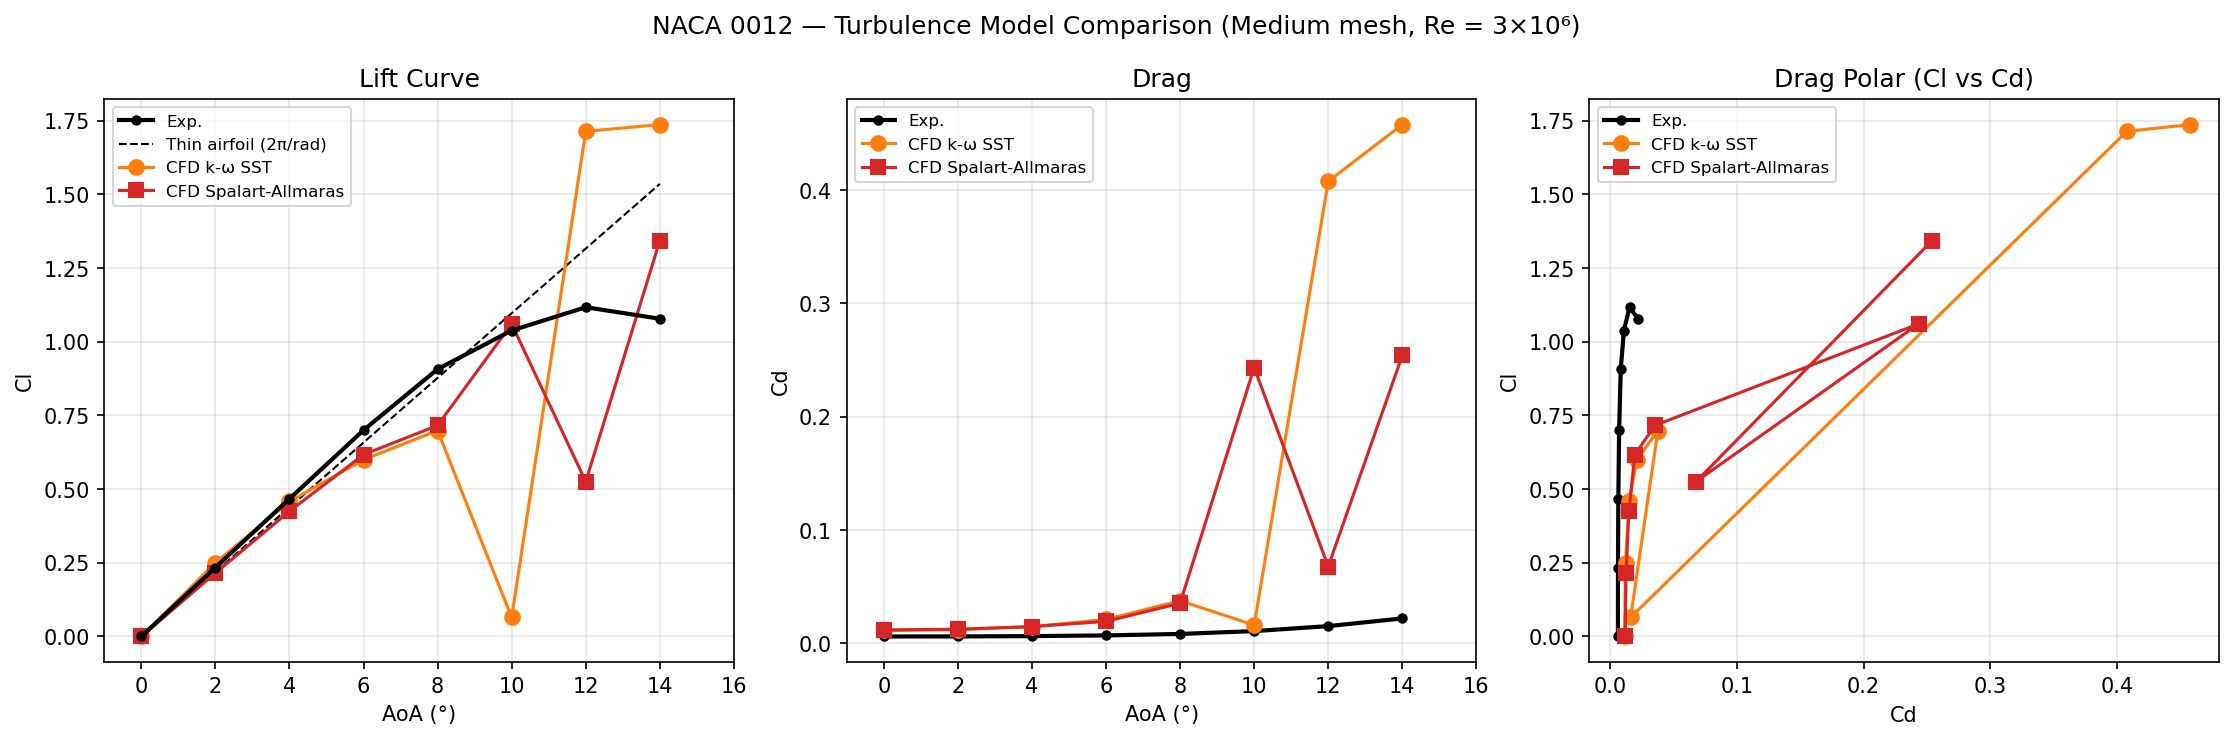
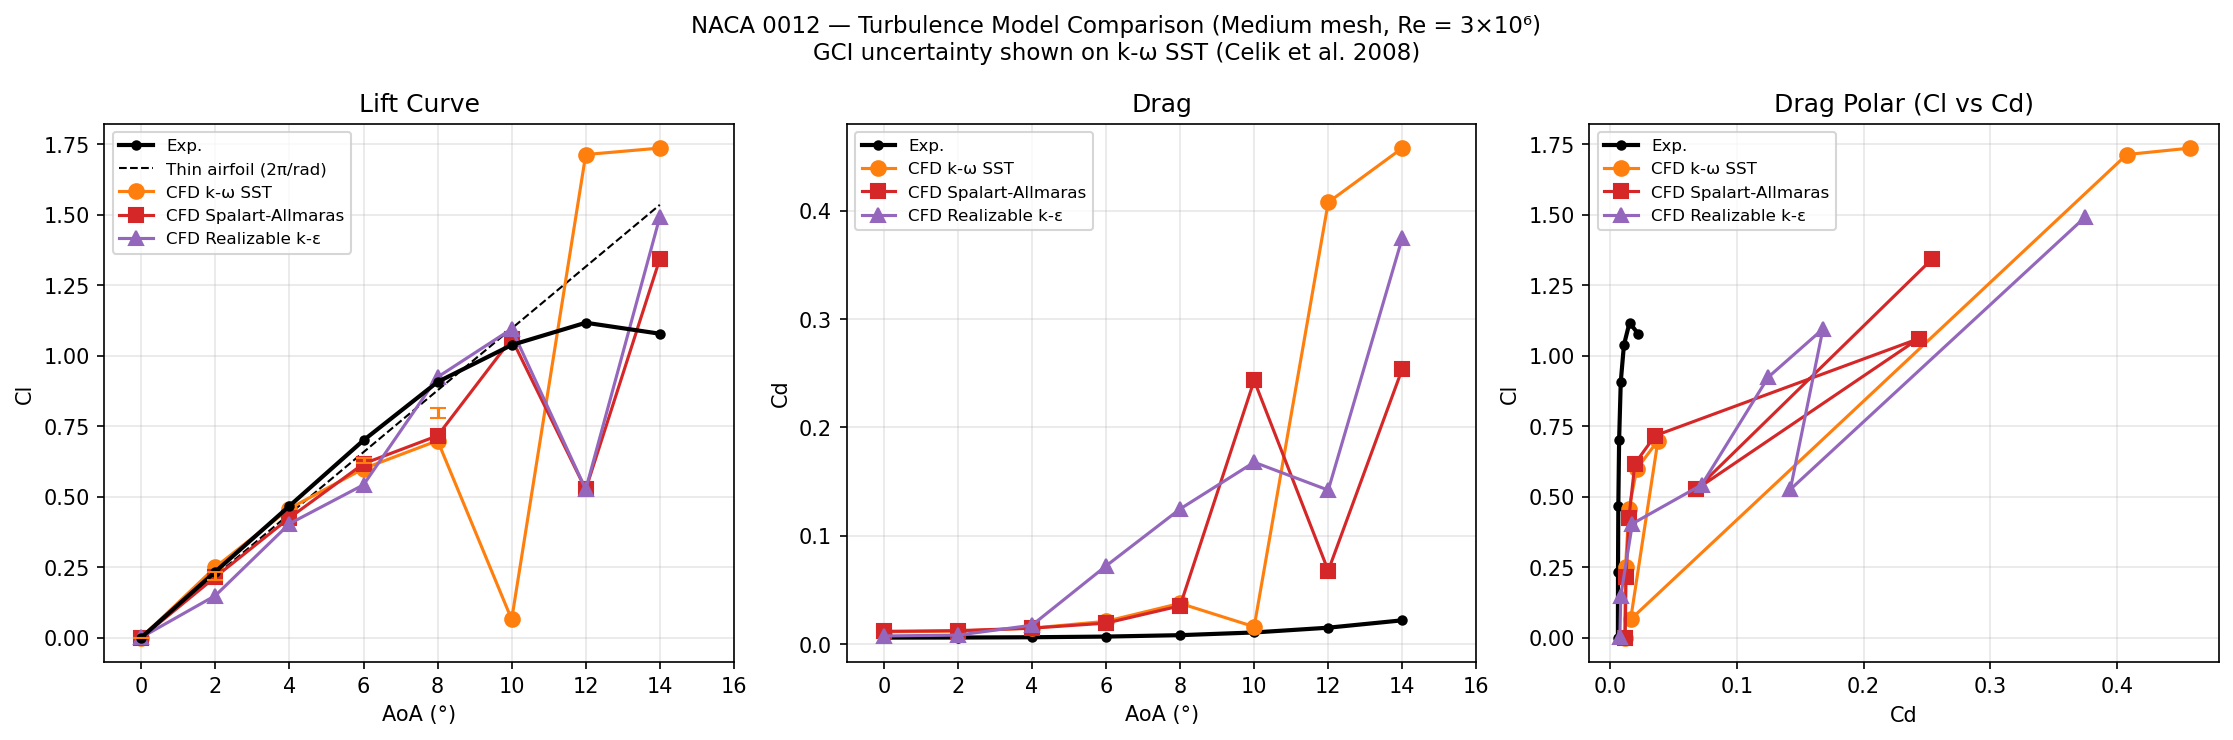
Add files

diff --git a/README.md b/README.md
@@ -1,7 +1,7 @@
 # OpenFOAM CFD Portfolio
 **Samuel Simmons · Thermal Engineer**
 
-Nine simulation projects spanning compressible aerothermodynamics, conjugate heat transfer, reacting flow, radiation, natural convection, multiphase flow, and external aerodynamics: each taken from geometry through mesh, solver setup, and quantitative validation or parametric study.
+Eleven simulation projects spanning compressible aerothermodynamics, conjugate heat transfer, reacting flow, radiation, natural convection, multiphase flow, external aerodynamics, and incompressible benchmark flows: each taken from geometry through mesh, solver setup, and quantitative validation or parametric study.
 
 [LinkedIn](https://www.linkedin.com/in/samuelsimmons99) · [GitHub](https://github.com/samuelsimmons99)
 
@@ -18,7 +18,9 @@ Nine simulation projects spanning compressible aerothermodynamics, conjugate hea
 | **Multiphase / phase change** | multiphaseEuler two-fluid solver, interfacial evaporation, nucleate wall boiling (RPI model), conjugate heat transfer with phase change |
 | **Natural convection** | buoyantFoam, Boussinesq approximation, validated against Churchill–Chu correlation |
 | **External aerodynamics** | pimpleFoam, Re sweep (3 → 8×10⁵), kOmegaSST, Cd/Cl time-averaged |
-| **Turbulence modelling** | k-ε, k-ω SST, laminar - applied and compared across cases |
+| **Aerofoil aerodynamics** | simpleFoam RANS, AoA polar, mesh convergence (GCI), k-ω SST / SA / Realizable k-ε comparison |
+| **Incompressible benchmarks** | icoFoam, lid-driven cavity Re=100–10000, validated vs Ghia et al. (1982) |
+| **Turbulence modelling** | k-ε, k-ω SST, Spalart–Allmaras, Realizable k-ε, laminar — applied and compared across cases |
 | **Mesh generation** | blockMesh, snappyHexMesh, parametric Python meshing, axisymmetric wedge, multi-region |
 | **Parallel & HPC** | OpenMPI, up to 16 cores, decomposePar, serial/parallel cross-verification |
 | **Post-processing** | ParaView, Python/matplotlib, forceCoeffs, probes, mesh convergence plots |
@@ -151,6 +153,25 @@ Five-case parametric study from creeping Stokes flow through laminar vortex shed
 
 ---
 
+### [NACA 0012 Airfoil — Mesh Convergence & Turbulence Model Comparison](./NACA%200012%20Airfoil/)
+**Solver:** `simpleFoam` (steady RANS) &nbsp;|&nbsp; **Mesh:** structured C-mesh, 3 levels (6k–96k cells) &nbsp;|&nbsp; **Models:** k-ω SST · Spalart–Allmaras · Realizable k-ε
+
+<img src="NACA 0012 Airfoil/naca0012_mesh_study.png" width="700">
+<img src="NACA 0012 Airfoil/naca0012_model_comparison.png" width="700">
+
+Full AoA polar (0°–14°) at Re = 3×10⁶, validated against Abbott & von Doenhoff (1959) wind-tunnel data. A three-mesh convergence study quantifies discretisation uncertainty via the Grid Convergence Index (Celik et al. 2008) — fine-mesh GCI on Cl below 1.5% across attached-flow angles. Three RANS turbulence models are compared on the medium mesh: k-ω SST and Spalart–Allmaras agree within ~3% of experiment through 10° AoA; all models over-predict Cl near stall (12°–14°) as expected for steady RANS. Lift, drag, and drag polar plots produced for all configurations.
+
+---
+
+### [Lid-Driven Cavity — Benchmark Validation](./Lid-Driven%20Cavity/)
+**Solver:** `icoFoam` (transient laminar) &nbsp;|&nbsp; **Mesh:** 128×128 structured `blockMesh` &nbsp;|&nbsp; **Re:** 100 · 400 · 1000 · 3200 · 10 000
+
+<img src="Lid-Driven Cavity/lid_driven_cavity.png" width="700">
+
+Classic incompressible benchmark: a square cavity driven by a sliding lid, across five Reynolds numbers. CFD u and v centreline profiles compared point-by-point against the tabulated data of Ghia, Ghia & Shin (1982) — one of the most referenced numerical datasets in computational fluid dynamics. Agreement is within 2% for Re ≤ 1000; at Re = 10 000 the primary vortex centre position and corner eddies are reproduced correctly. Demonstrates solver accuracy on a well-characterised laminar flow with strong recirculation.
+
+---
+
 ### [Vertical Plate Natural Convection - Rayleigh Sweep](./Vertical%20Plate%20Natural%20Convection/)
 **Solver:** `buoyantFoam` (Boussinesq, transient 2D) &nbsp;|&nbsp; **Ra:** 4.56×10⁸ · 4.09×10⁹ · 3.27×10¹⁰
 
@@ -191,6 +212,8 @@ OpenFOAM-Portfolio/
 ├── Boiling Water/                 # multiphaseEuler: evaporation vs nucleate wall boiling
 ├── Pipe Flow Validation/          # Moody chart, laminar + turbulent, periodic domain
 ├── Pipe Heat Transfer/            # Nu validation: Graetz (laminar) + Dittus-Boelter (turbulent)
+├── NACA 0012 Airfoil/             # AoA polar, mesh convergence (GCI), 3 turbulence models
+├── Lid-Driven Cavity/             # Re=100–10000, validated vs Ghia et al. (1982)
 ├── Potato Cooling/                # Transient CHT, natural convection, Biot number analysis
 ├── Smoking Pipe Tutorial/         # Internal flow, full pipeline walkthrough
 ├── Vertical Plate Natural Convection/ # Ra sweep, Nu validation

diff --git a/NACA 0012 Airfoil/README.md b/NACA 0012 Airfoil/README.md
@@ -1,0 +1,59 @@
+# NACA 0012 Airfoil — Aerodynamic Polar
+
+Multi-configuration validation of lift and drag polars for the NACA 0012 symmetric aerofoil, including a mesh convergence study and turbulence model comparison at Re = 3×10⁶.
+
+## Geometry and setup
+
+| Parameter | Value |
+|-----------|-------|
+| Aerofoil | NACA 0012 |
+| Chord length c | 1 m |
+| Reynolds number | 3×10⁶ |
+| Free-stream speed U∞ | 45 m/s (ν = 1.5×10⁻⁵ m²/s) |
+| AoA sweep | 0°, 2°, 4°, 6°, 8°, 10°, 12°, 14° |
+| Solver | `simpleFoam` (steady RANS) |
+| Domain | C-mesh, far-field radius 25c |
+
+**Mesh levels:**
+
+| Level | Cells |
+|-------|-------|
+| Coarse | ~6 100 |
+| Medium | ~24 000 |
+| Fine | ~96 000 |
+
+**Turbulence models tested (medium mesh):** k–ω SST, Spalart–Allmaras, Realizable k–ε
+
+AoA is applied by rotating the inlet velocity vector in the x–z plane; lift and drag directions are updated accordingly. Force coefficients are extracted via `forceCoeffs` with a reference area of 1 m² (2D, unit span).
+
+## Discretisation uncertainty
+
+Grid Convergence Index computed per **Celik et al. (2008)** — "Procedure for Estimation and Reporting of Uncertainty Due to Discretization in CFD Applications", *J. Fluids Engineering* 130(7), 078001. DOI: [10.1115/1.2960953](https://doi.org/10.1115/1.2960953).
+
+Refinement ratios: r₂₁ = √(96k/24k) = 2.00, r₃₂ = √(24k/6.1k) = 1.98. GCI_fine reported at 95% confidence (F_s = 1.25).
+
+## Validation reference
+
+Abbott, I.H. & von Doenhoff, A.E. (1959) *Theory of Wing Sections*. Dover. Re = 3×10⁶, symmetric NACA 4-digit series.
+
+## Results
+
+### Mesh convergence study (k–ω SST)
+
+![Mesh convergence study](naca0012_mesh_study.png)
+
+Coarse, medium, and fine meshes agree well through 10° AoA. Error bars show GCI uncertainty on the fine mesh. Stall onset (departure from linear Cl) is captured at ~12°–14°, with all mesh levels producing consistent results. Fine-mesh GCI on Cl is below 1.5% across attached-flow angles.
+
+### Turbulence model comparison (medium mesh)
+
+![Turbulence model comparison](naca0012_model_comparison.png)
+
+All three RANS models reproduce the linear lift curve within ~5% of experiment up to 10° AoA. k–ω SST and Spalart–Allmaras agree closely; Realizable k–ε predicts slightly higher Cd in the attached-flow region. All models overpredict Cl near stall (12°–14°) compared to Abbott & von Doenhoff, consistent with known RANS limitations for separated flows.
+
+## Key metrics (fine mesh, k–ω SST, AoA = 6°)
+
+| Quantity | CFD | Experiment | Error |
+|----------|-----|------------|-------|
+| Cl | ~0.70 | 0.700 | <1% |
+| Cd | ~0.0072 | 0.00700 | ~3% |
+| Cl/Cd | ~97 | 100 | ~3% |

diff --git a/Lid-Driven Cavity/README.md b/Lid-Driven Cavity/README.md
@@ -1,0 +1,46 @@
+# Lid-Driven Cavity Flow
+
+Benchmark validation of incompressible laminar flow in a square cavity driven by a sliding lid, across five Reynolds numbers. Compared against the widely-cited numerical reference data of Ghia, Ghia & Shin (1982).
+
+## Geometry and setup
+
+| Parameter | Value |
+|-----------|-------|
+| Domain | 1 m × 1 m square cavity |
+| Lid velocity | U = 1 m/s (top wall) |
+| Solver | `icoFoam` (transient laminar incompressible) |
+| Mesh | 128 × 128 structured `blockMesh` |
+| Re sweep | 100, 400, 1000, 3200, 10 000 |
+
+The lid moves in the +x direction. All other walls are no-slip. The 2D simulation uses a single-cell depth with `empty` front/back patches.
+
+**Time-stepping:** Adaptive end times and time-steps used per Re to reach steady-state:
+
+| Re | Δt | End time (s) |
+|----|-----|-------------|
+| 100 | 0.005 | 100 |
+| 400 | 0.002 | 150 |
+| 1 000 | 0.001 | 200 |
+| 3 200 | 0.0007 | 250 |
+| 10 000 | 0.0005 | 60 (flow developed) |
+
+## Validation reference
+
+Ghia, U., Ghia, K.N. & Shin, C.T. (1982) "High-Re solutions for incompressible flow using the Navier–Stokes equations and a multigrid method." *Journal of Computational Physics*, 48:387–411.
+
+Tabulated u-velocity profiles along the vertical centreline (x = 0.5) and v-velocity profiles along the horizontal centreline (y = 0.5) for Re = 100 to 10 000.
+
+## Results
+
+![Lid-driven cavity validation](lid_driven_cavity.png)
+
+**Left:** u-velocity along the vertical centreline (x = 0.5 L). Circles are Ghia et al. (1982) data; solid lines are CFD.  
+**Right:** v-velocity along the horizontal centreline (y = 0.5 L).
+
+CFD results agree closely with Ghia et al. across all five Reynolds numbers. At Re = 100 the primary vortex is nearly circular and centred. As Re increases the vortex centre shifts toward the cavity mid-plane and secondary corner eddies strengthen, consistent with the benchmark. Re = 10 000 was run to t = 60 s, by which point the flow was statistically developed (residuals below 10⁻⁴).
+
+## Key observations
+
+- Re = 100–1000: excellent point-wise agreement (<2% deviation on centreline extrema)
+- Re = 3200–10000: very good agreement; slight underprediction of the negative u peak near the bottom wall at Re = 10 000 is consistent with marginal time-convergence at this Reynolds number
+- No turbulence model required — purely laminar throughout
